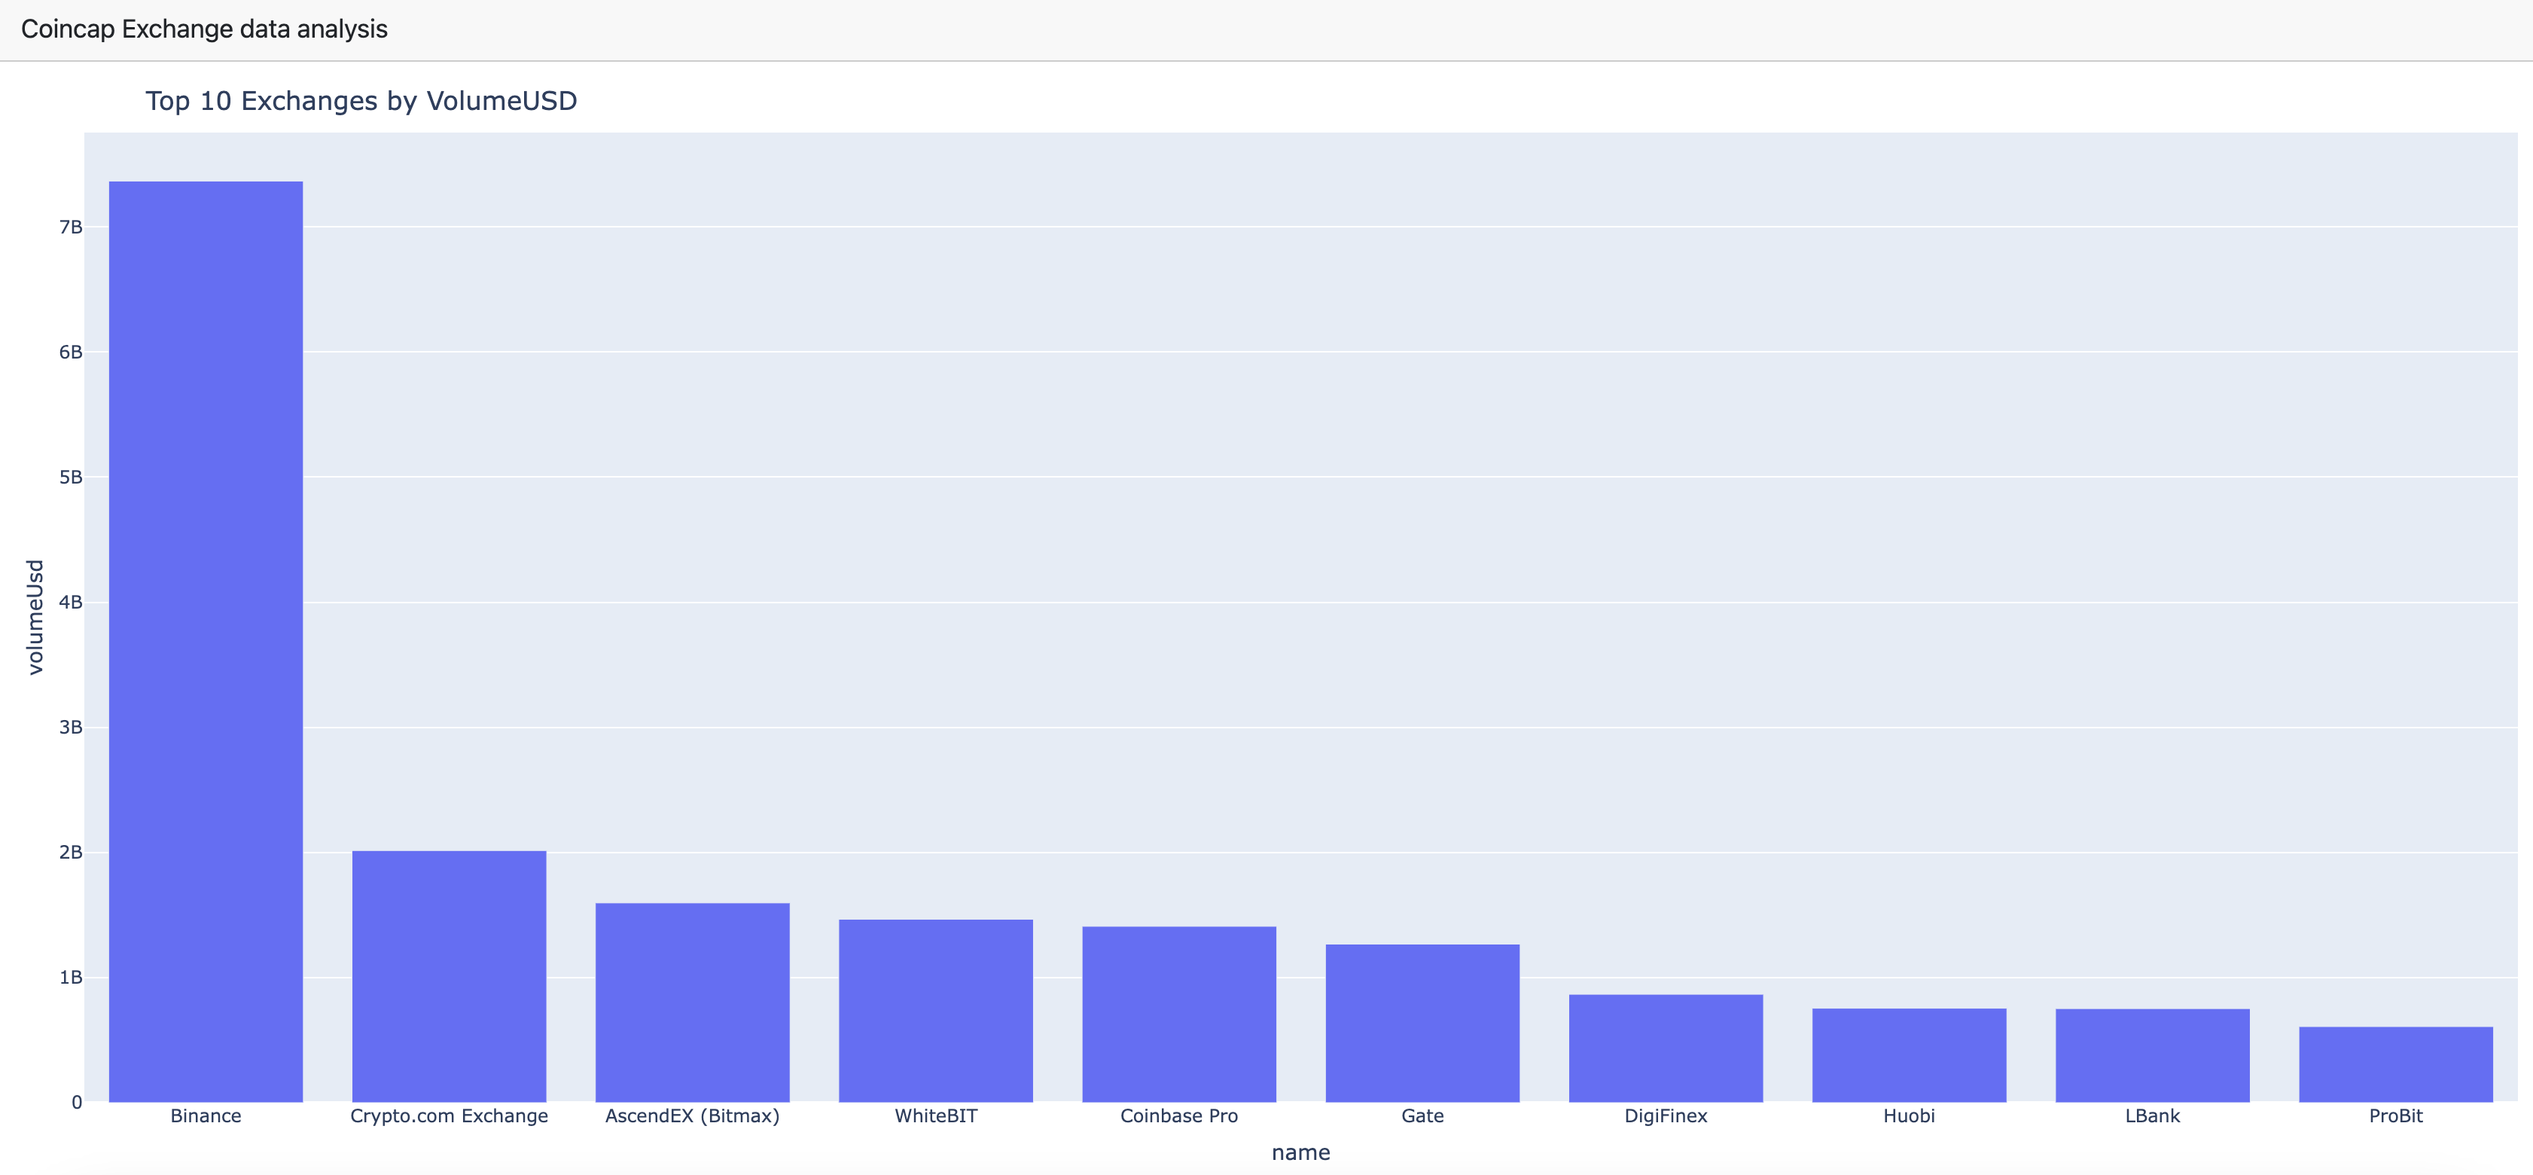
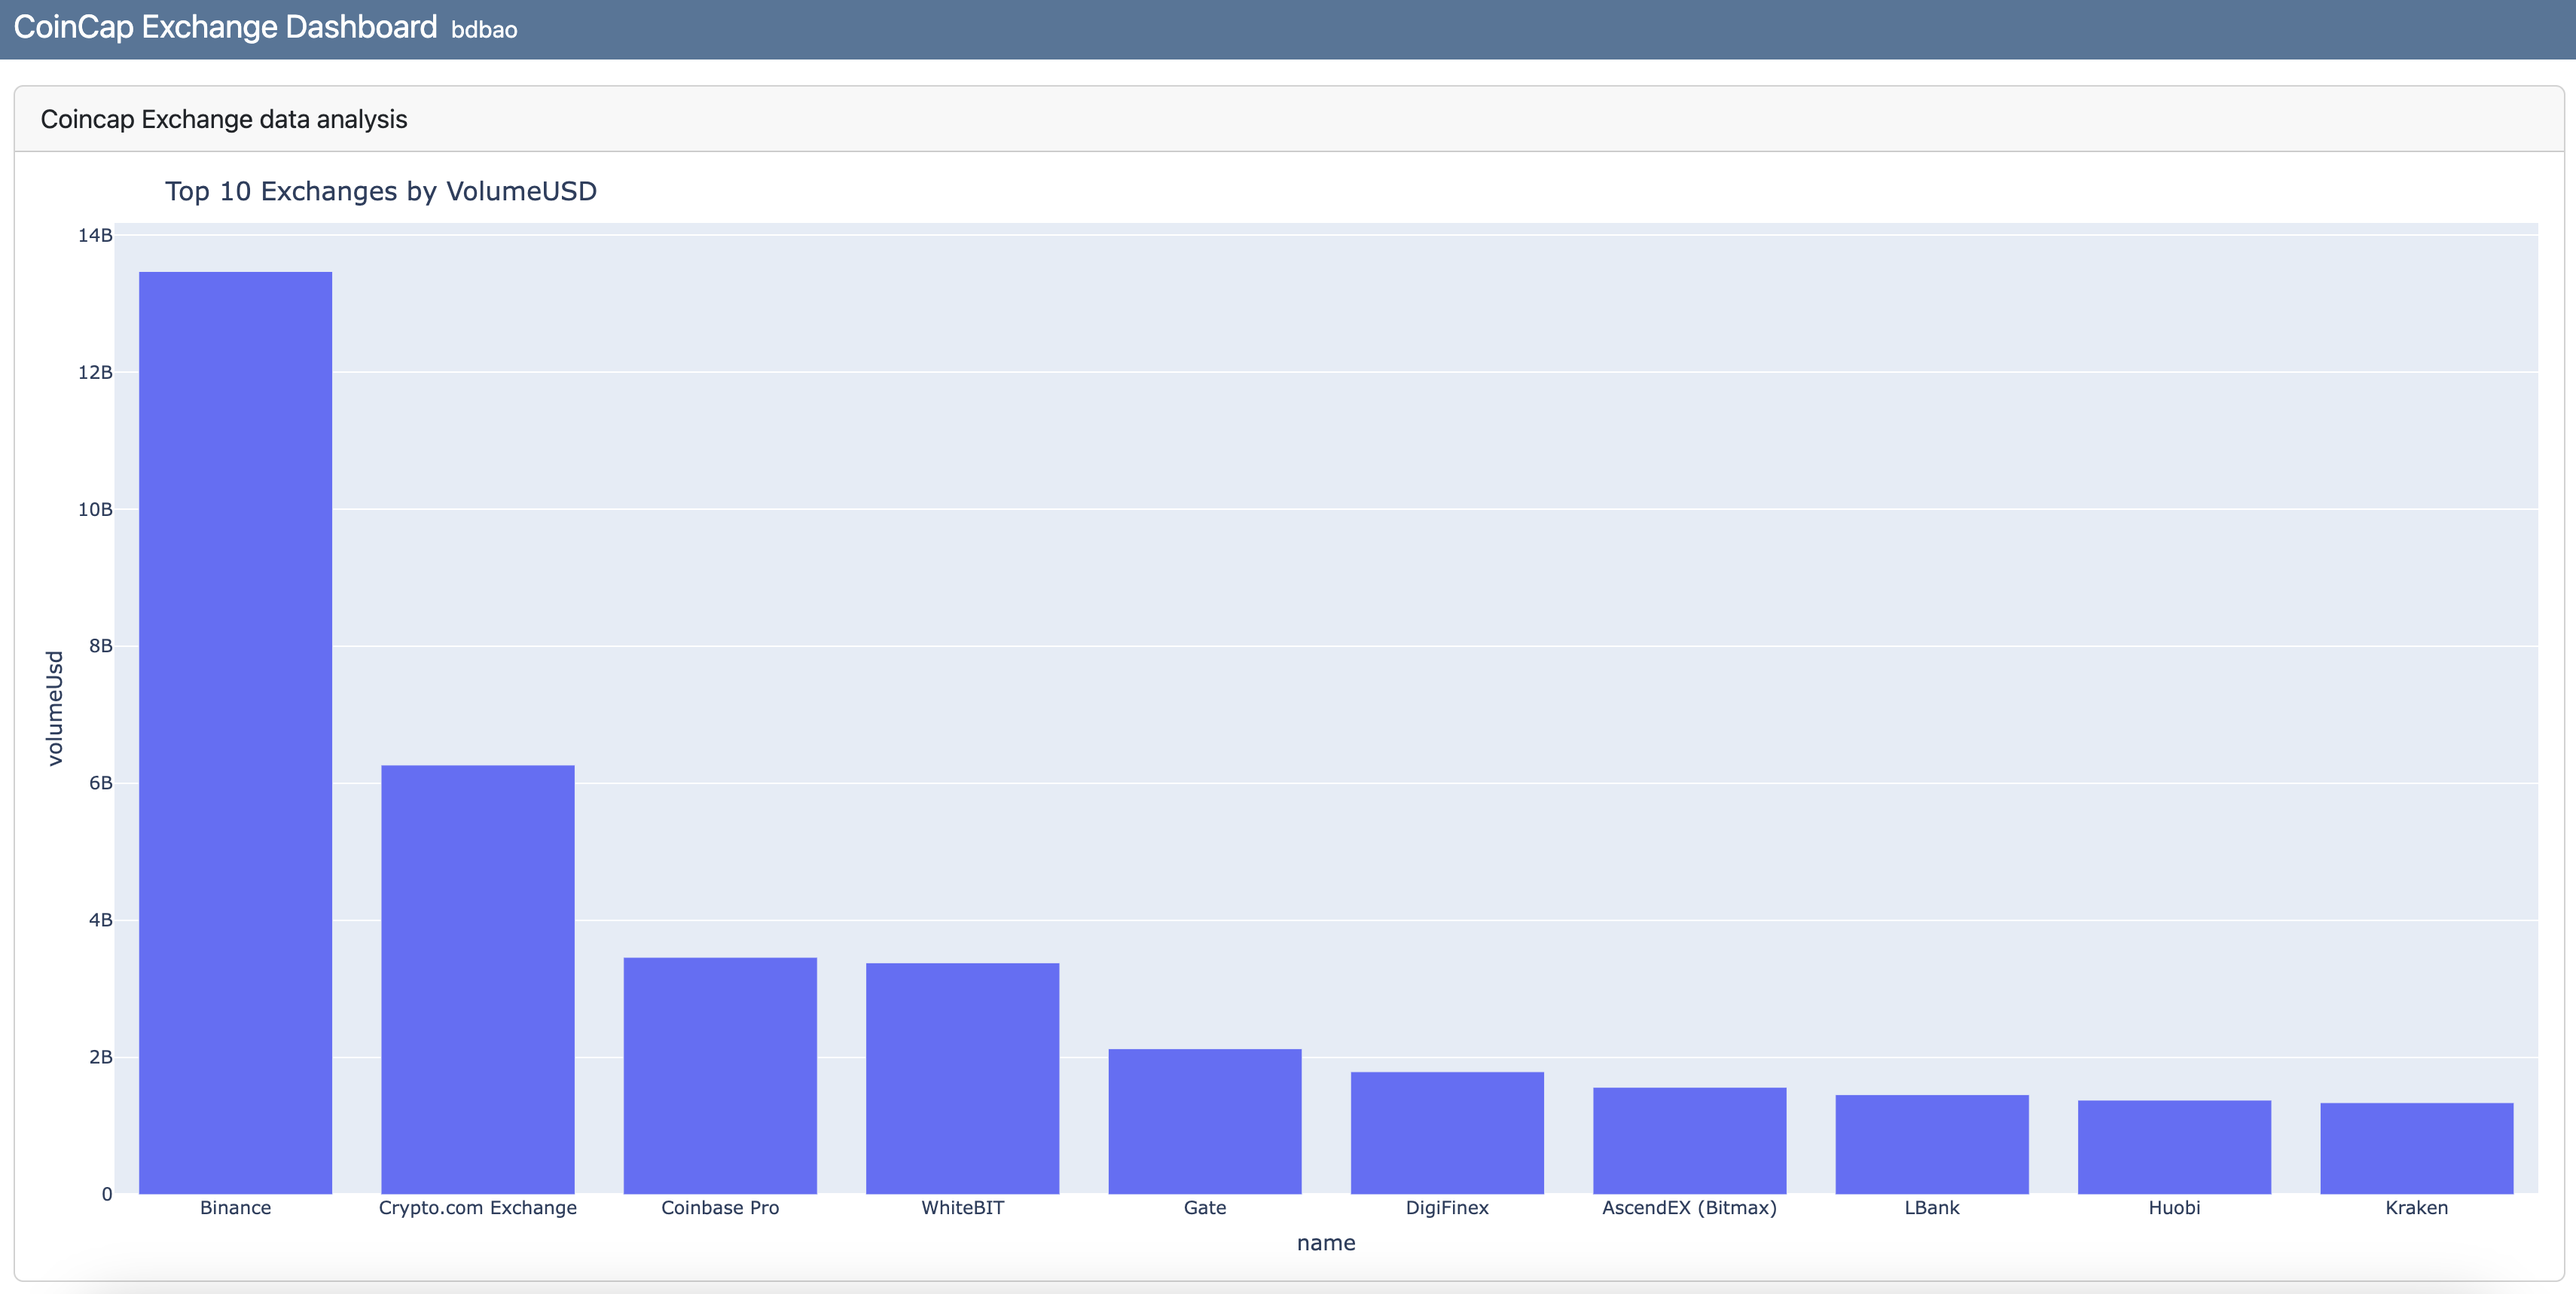
chore: change readme and update dashboard

Changed region(s): [[0.0, 0.0, 1.0, 1.0]]

diff --git a/README.md b/README.md
@@ -3,6 +3,10 @@
     - [Run locally](#run-locally)
   - [Architecture and services in this template](#architecture-and-services-in-this-template)
   - [Writing pipelines](#writing-pipelines)
+  - [(Optional) Advanced cloud setup](#optional-advanced-cloud-setup)
+    - [Prerequisites:](#prerequisites)
+    - [Tear down infra](#tear-down-infra)
+    - [More edit:](#more-edit)
 
 
 # Data engineering ETL project
@@ -56,7 +60,6 @@ We have a sample pipeline at [coincap_elt.py](./dags/coincap_elt.py) that you ca
 
 Once the `coincap_elt` DAG runs, we can see the dashboard html at [./visualization/dashboard.html](./visualization/dashboard.html) and will look like ![Dashboard](./assets/images/dash.png).
 
-<!---
 ## (Optional) Advanced cloud setup
 
 If you want to run your code on an EC2 instance, with terraform, follow the steps below.
@@ -129,11 +132,11 @@ Click Add permissions → Attach policies directly.
 Search for and attach the policy: AdministratorAccess.
 Click Add permissions.
 
+### More edit:
 - Check the Airflow progress in EC2 instance:
 ```bash
 terraform -chdir=./terraform output -raw private_key > private_key.pem
 chmod 600 private_key.pem
-ssh -i private_key.pem ubuntu@<Public-IPv4-Address-AWS># 100.26.222.71  
+ssh -i private_key.pem ubuntu@<Public-IPv4-Address-AWS> # in: https://us-east-1.console.aws.amazon.com/ec2/home?region=us-east-1#Instances:sort=desc:dnsName
   docker ps
 ```
--->
